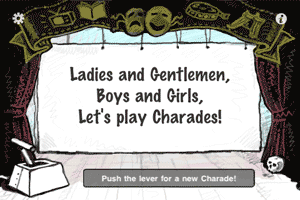
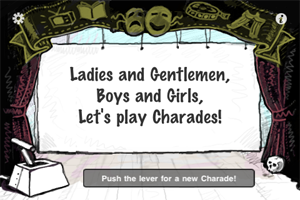
Updated with new screenshots, tweaked play button for visibility, tweaked background opacity during playback and fixed for IE compatibility (Flash needs the js to be loaded in the shadowbox)

diff --git a/assets/styles/layout.css b/assets/styles/layout.css
@@ -160,26 +160,6 @@ body.blog, body.blog-post, body.single-column {
     top: 0;
 }
 
-.content-upper #screencast {
-    position: absolute;
-    right: -50px;
-    top: 0;
-}
-
-.content-upper #screencast-portrait {
-    position: absolute;
-    right: 60px;
-    top: 0;
-}
-
-
-
-.content-upper #screencast-speakapedia {
-    position: absolute;
-    right: 15px;
-    top: -20px;
-}
-
 
 
 
@@ -204,7 +184,7 @@ body.blog, body.blog-post, body.single-column {
 }
 
 .content-upper .screencast-portrait .play-icon {
-    background: url(../backgrounds/play.png) 50% 50% no-repeat;
+    background: url(../backgrounds/play-icon.png) 50% 50% no-repeat;
     cursor: pointer;
     display: inline;
     float: left;
@@ -250,7 +230,7 @@ body.blog, body.blog-post, body.single-column {
 }
 
 .content-upper .screencast-landscape .play-icon {
-    background: url(../backgrounds/play.png) 50% 50% no-repeat;
+    background: url(../backgrounds/play-icon.png) 50% 50% no-repeat;
     cursor: pointer;
     display: inline;
     float: left;
@@ -279,44 +259,91 @@ body.blog, body.blog-post, body.single-column {
     display: inline;
     float: right;
     position: absolute;
-    right: 50px;
-    top: 30px;
+    right: 15px;
+    top: -12px;
 }
 
 .content-upper .screencast-ipad {
+  background: url(../images/ipad-frame.png) top left no-repeat;
   display: inline;
   float: left;
-  height: 263px;
-  padding: 0;
-  width: 350px;
+  height: 400px;
+  width: 450px;
   
 }
 
 .content-upper .screencast-ipad .play-icon {
-    background: url(../backgrounds/play.png) 50% 50% no-repeat;
+    background: url(../backgrounds/play-icon.png) 50% 50% no-repeat;
     cursor: pointer;
     display: inline;
     float: left;
-    height: 263px;
+    height: 274px;
     outline: none;
     text-indent: -9999px;
-    width: 350px;
+    width: 365px;
 }
 
 .content-upper .screencast-ipad .screen {
     display: inline;
     float: left;
-    height: 263px;
-    width: 350px;
+    margin: 40px 0 0 44px;
+    height: 274px;
+    width: 365px;
 }
 
 .content-upper .screencast-ipad .explore-flickr {
-    background: url(../backgrounds/explore-flickr.png) top left no-repeat;
+    background: url(../backgrounds/explore-flickr.jpg) top left no-repeat;
 }
 
-.content-upper .screencast-ipad .speakapedia {
-    background: #000 url(../backgrounds/speakapedia.png) top left no-repeat;
+
+.content-upper .play-icon:hover {
+    background: url(../backgrounds/play-icon-hover.png) 50% 50% no-repeat;
 }
+
+
+
+
+
+
+.content-upper .screencast-mac-container {
+    display: inline;
+    float: right;
+    position: absolute;
+    right: 0px;
+    top: 15px;
+}
+
+.content-upper .screencast-mac {
+  display: inline;
+  float: left;
+  height: 329px;
+  padding: 0;
+  width: 450px;
+  
+}
+
+.content-upper .screencast-mac .play-icon {
+    background: url(../backgrounds/play-icon.png) 50% 50% no-repeat;
+    cursor: pointer;
+    display: inline;
+    float: left;
+    height: 329px;
+    outline: none;
+    text-indent: -9999px;
+    width: 450px;
+}
+
+.content-upper .screencast-mac .screen {
+    display: inline;
+    float: left;
+    height: 329px;
+    width: 450px;
+}
+
+.content-upper .screencast-mac .speakapedia {
+    background: url(../images/speakapedia.png) top left no-repeat;
+}
+
 
 
 

diff --git a/explore-flickr-video.html b/explore-flickr-video.html
@@ -1,7 +1,10 @@
 ---
+layout: shadowbox
 permalink: /explore-flickr-video/
 ---
-<video id="movie" width="384" height="288" preload="none" controls autobuffer autoplay>  
-  <source src="http://shinydev.s3.amazonaws.com/videos/explore-flickr.mp4" type='video/mp4; codecs="avc1.42E01E, mp4a.40.2"' />
-  <source src="http://shinydev.s3.amazonaws.com/videos/explore-flickr.ogv" type='video/ogg; codecs="theora, vorbis"' />
-</video>
+<div style="display:block;width: 384px;height: 288px;margin: 0;padding: 0;overflow: hidden;">
+    <video id="movie" width="384" height="288" preload="none" controls autobuffer autoplay>  
+        <source src="http://shinydev.s3.amazonaws.com/videos/explore-flickr.mp4" type='video/mp4; codecs="avc1.42E01E, mp4a.40.2"' />
+        <source src="http://shinydev.s3.amazonaws.com/videos/explore-flickr.ogv" type='video/ogg; codecs="theora, vorbis"' />
+    </video>
+</div>

diff --git a/speakapedia-video.html b/speakapedia-video.html
@@ -1,7 +1,10 @@
 ---
+layout: shadowbox
 permalink: /speakapedia-video/
 ---
-<video id="video" width="434" height="349" preload="none" controls autobuffer autoplay>
-  <source src="http://shinydev.s3.amazonaws.com/videos/speakapedia_low.mp4" type='video/mp4; codecs="avc1.42E01E, mp4a.40.2"' />
-  <source src="http://shinydev.s3.amazonaws.com/videos/speakapedia_low.ogv" type='video/ogg; codecs="theora, vorbis"' />
-</video>
+<div style="display:block;width: 434px;height: 349px;margin: 0;padding: 0;overflow: hidden;">
+    <video id="video" width="434" height="349" preload="none" controls autobuffer autoplay>
+      <source src="http://shinydev.s3.amazonaws.com/videos/speakapedia_low.mp4" type='video/mp4; codecs="avc1.42E01E, mp4a.40.2"' />
+      <source src="http://shinydev.s3.amazonaws.com/videos/speakapedia_low.ogv" type='video/ogg; codecs="theora, vorbis"' />
+    </video>
+</div>

diff --git a/the-rag-video.html b/the-rag-video.html
@@ -1,7 +1,10 @@
 ---
+layout: shadowbox
 permalink: /the-rag-video/
 ---
-<video id="movie" width="200" height="300" preload="none" controls autobuffer autoplay>  
-    <source src="http://shinydev.s3.amazonaws.com/videos/rag.mp4" type='video/mp4; codecs="avc1.42E01E, mp4a.40.2"' />
-    <source src="http://shinydev.s3.amazonaws.com/videos/rag.ogv" type='video/ogg; codecs="theora, vorbis"' />
-</video>
+<div style="display:block;width: 200px;height: 300px;margin: 0;padding: 0;overflow: hidden;">
+    <video id="movie" width="200" height="300" preload="none" controls autobuffer autoplay>  
+        <source src="http://shinydev.s3.amazonaws.com/videos/rag.mp4" type='video/mp4; codecs="avc1.42E01E, mp4a.40.2"' />
+        <source src="http://shinydev.s3.amazonaws.com/videos/rag.ogv" type='video/ogg; codecs="theora, vorbis"' />
+    </video>
+</div>

diff --git a/speakapedia.html b/speakapedia.html
@@ -16,8 +16,8 @@ permalink: /speakapedia/
     <p class="fancy-link"><a href="http://shinydev.s3.amazonaws.com/updates/speakapedia_1.1.dmg">Download Speakapedia for FREE</a></p>
   </div>
   
-  <div class="screencast-ipad-container">
-          <div class="screencast-ipad">
+  <div class="screencast-mac-container">
+          <div class="screencast-mac">
               <div class="screen speakapedia">
                   <a href="/speakapedia-video" rel="shadowbox;height=349;width=434;" class="play-icon">Play video</a>
               </div>

diff --git a/_layouts/shadowbox.html b/_layouts/shadowbox.html
@@ -1,0 +1,14 @@
+<!DOCTYPE html>
+<html lang="en">
+<head>
+<!--[if IE]>
+<script src="http://html5shiv.googlecode.com/svn/trunk/html5.js"></script>
+<![endif]-->
+<script src="/assets/js/jquery-1.4.2.min.js" type="text/javascript"></script>
+<script src="/assets/flowplayer/flowplayer-3.2.0.min.js"></script>
+<script src="/assets/js/html5-video.js"></script>
+</head>
+<body>
+{{content}}
+</body>
+</html>

diff --git a/assets/js/onload.js b/assets/js/onload.js
@@ -33,7 +33,7 @@ $(document).ready(function () {
     //$("a#video-link").fancybox();
     Shadowbox.init({
         autoplayMovies: true,
-        overlayOpacity: "0.9" 
+        overlayOpacity: "0.6" 
     });
     
     // initialise Superfish 
